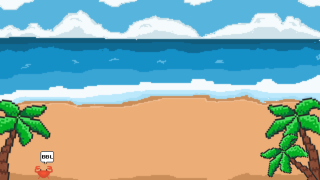
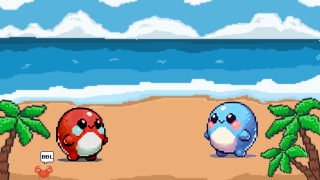
ani

Changed region(s): [[0.625, 0.5556, 0.8125, 0.8889], [0.1562, 0.5833, 0.3438, 0.9167]]

diff --git a/core/src/main/java/com/bubble/listeners/MyContactListener.java b/core/src/main/java/com/bubble/listeners/MyContactListener.java
@@ -45,69 +45,11 @@ public class MyContactListener implements ContactListener {
                     return;
                 }
             }
-        } else if (fa.getUserData() instanceof Bubble || fb.getUserData() instanceof Bubble) {
-            
+        } else if (fa.getUserData() instanceof Bubble && fb.getUserData() instanceof Bubble) {
+            Bubble b1 = (Bubble) fa.getUserData();
+            Bubble b2 = (Bubble) fb.getUserData();
+            b1.bubbleMerge(b2);
         }
-        // // If player has collided with a lever
-        // if (fa.getUserData() instanceof Interactable || fb.getUserData() instanceof Interactable) {
-        //     character = (PlayableCharacter) entityHandler.getEntity(fa.getUserData() instanceof Interactable ? fb.getBody() : fa.getBody());
-        //     character.addInteractable((Interactable) (fa.getUserData() instanceof Interactable ? fa.getUserData() : fb.getUserData()));
-
-        // } else if (fa.getUserData() instanceof Item || fb.getUserData() instanceof Item) {  // Collision with item
-        //     Item item = (Item) (fa.getUserData() instanceof Item ? fa.getUserData() : fb.getUserData());
-        //     util.getObjectHandler().removeObject(item);
-        //     hud.addPapaya(level);
-
-        // } else if (fa.getUserData() instanceof Merchant || fb.getUserData() instanceof Merchant) {  // Collision with merchant
-        //     Mage mage = (Mage) entityHandler.getEntity(fa.getUserData() instanceof Merchant ? fb.getBody() : fa.getBody());
-        //     Merchant merchant = (Merchant) (fa.getUserData() instanceof Merchant ? fa.getUserData() : fb.getUserData());
-        //     mage.setMerchantInRange(merchant);
-
-        // } else if (fa.getUserData() instanceof Platform || fb.getUserData() instanceof Platform) {  // Player collides with platform
-        //     // Adding entity to platform's entity list to handle horizontal movement
-        //     character = (PlayableCharacter) entityHandler.getEntity(fa.getUserData() instanceof Platform ? fb.getBody() : fa.getBody());
-        //     character.increaseFloorContact();
-        //     if (character.getMovementState() == MSTATE.PREV) character.setMovementState(MSTATE.STILL);
-        //     Platform platform = (Platform) (fa.getUserData() instanceof Platform ? fa.getUserData() : fb.getUserData());
-        //     platform.addEntityOnTop(character);
-
-        // } else if (fa.getUserData().equals("leftSensor") || fb.getUserData().equals("leftSensor")) {    // Collision with wall
-        //     character = (PlayableCharacter) entityHandler.getEntity(fa.getUserData().equals("leftSensor") ? fa.getBody() : fb.getBody());
-        //     character.setWallState(-1);
-
-        // } else if (fa.getUserData().equals("rightSensor") || fb.getUserData().equals("rightSensor")) {  // Collision with wall
-        //     character = (PlayableCharacter) entityHandler.getEntity(fa.getUserData().equals("rightSensor") ? fa.getBody() : fb.getBody());
-        //     character.setWallState(1);
-
-        // } else if (fa.getUserData().equals("bottomSensor") || fb.getUserData().equals("bottomSensor")) {    // Collision with ground
-        //     character = (PlayableCharacter) entityHandler.getEntity(fa.getUserData().equals("bottomSensor") ? fa.getBody() : fb.getBody());
-        //     character.increaseFloorContact();
-        //     if (character.getMovementState() == MSTATE.PREV) character.setMovementState(MSTATE.STILL);
-
-        // } else if (fa.getUserData().equals("attack") || fb.getUserData().equals("attack")) {    // Collision with sword attack
-        //     character = (PlayableCharacter) entityHandler.getEntity(fa.getUserData().equals("attack") ? fb.getBody() : fa.getBody());
-        //     Body characterB2body = character.getB2body();
-        //     character.die();
-        //     // Hit procedure
-        //     Vector2 normalized = MathWizard.normalizedDirection(characterB2body.getPosition(), fa.getUserData().equals("hazard") ? fa.getBody().getPosition() : fb.getBody().getPosition());
-        //     character.stun(0.05f);
-        //     characterB2body.applyLinearImpulse(new Vector2(normalized.x * Constants.KNOCKBACK_SCALE, normalized.y * Constants.KNOCKBACK_SCALE), characterB2body.getWorldCenter(), true);
-
-        // } else if (fa.getUserData().equals("spike") || fb.getUserData().equals("spike")) {  // Collision with spike
-        //     character = (PlayableCharacter) entityHandler.getEntity(fa.getUserData().equals("spike") ? fb.getBody() : fa.getBody());
-        //     character.setLives(1);
-        //     character.die();
-
-        // } else if (fa.getUserData().equals("vision") || fb.getUserData().equals("vision")) {    // Collision with range of vision
-        //     PlayableCharacter source = (PlayableCharacter) entityHandler.getEntity(fa.getUserData().equals("vision") ? fa.getBody() : fb.getBody());
-        //     PlayableCharacter target = (PlayableCharacter) entityHandler.getEntity((Integer) (fa.getUserData().equals("vision") ? fb : fa).getUserData());
-        //     util.getVisionMap().addTarget(source, target);
-
-        // } else if (fa.getUserData().equals("end") || fb.getUserData().equals("end")) {  // Collision with ending sensor
-        //     resourceManager.getSound("level_complete").play(1);
-        //     screenManager.setLevelProgression(level+1);
-        //     screenManager.pushScreen(SCREEN_OP.LEVELS, "sliding_left");
-        // }
     }
 
     // Triggered when a fixture stops colliding with a sensor
@@ -120,38 +62,6 @@ public class MyContactListener implements ContactListener {
 
         EntityHandler entityHandler = util.getEntityHandler();
 
-        // if (fa.getUserData() instanceof Interactable || fb.getUserData() instanceof Interactable) { // Removing lever from player's list
-        //     character = (PlayableCharacter) entityHandler.getEntity(fa.getUserData() instanceof Interactable ? fb.getBody() : fa.getBody());
-        //     character.removeInteractable((Interactable) (fa.getUserData() instanceof Interactable ? fa.getUserData() : fb.getUserData()));
-
-        // } else if (fa.getUserData() instanceof Platform || fb.getUserData() instanceof Platform) {  // Removing entity from platform's list
-        //     character = (PlayableCharacter) entityHandler.getEntity(fa.getUserData() instanceof Platform ? fb.getBody() : fa.getBody());
-        //     character.decreaseFloorContact();
-        //     Platform platform = (Platform) (fa.getUserData() instanceof Platform ? fa.getUserData() : fb.getUserData());
-        //     platform.removeEntityOnTop(character);
-
-        // } else if (fa.getUserData() instanceof Merchant || fb.getUserData() instanceof Merchant) {  // Merchant out of range
-        //     Mage mage = (Mage) entityHandler.getEntity(fa.getUserData() instanceof Merchant ? fb.getBody() : fa.getBody());
-        //     mage.setMerchantInRange(null);
-
-        // } else if (fa.getUserData().equals("leftSensor") || fb.getUserData().equals("leftSensor")) {    // Wall out of range
-        //     character = (PlayableCharacter) entityHandler.getEntity(fa.getUserData().equals("leftSensor") ? fa.getBody() : fb.getBody());
-        //     character.setWallState(0);
-
-        // } else if (fa.getUserData().equals("rightSensor") || fb.getUserData().equals("rightSensor")) {  // Wall out of range
-        //     character = (PlayableCharacter) entityHandler.getEntity(fa.getUserData().equals("rightSensor") ? fa.getBody() : fb.getBody());
-        //     character.setWallState(0);
-
-        // } else if (fa.getUserData().equals("bottomSensor") || fb.getUserData().equals("bottomSensor")) {    // Character on air
-        //     character = (PlayableCharacter) entityHandler.getEntity(fa.getUserData().equals("bottomSensor") ? fa.getBody() : fb.getBody());
-        //     character.decreaseFloorContact();
-
-        // } else if (fa.getUserData().equals("vision") || fb.getUserData().equals("vision")) {    // Entity out of range of vision
-        //     PlayableCharacter source = (PlayableCharacter) entityHandler.getEntity(fa.getUserData().equals("vision") ? fa.getBody() : fb.getBody());
-        //     PlayableCharacter target = (PlayableCharacter) entityHandler.getEntity((Integer) (fa.getUserData().equals("vision") ? fb : fa).getUserData());
-        //     util.getVisionMap().removeTarget(source, target);
-        //     if (!util.getVisionMap().traceable(target)) target.looseControl();
-        // }
     }
 
     // Method to collect both fixtures

diff --git a/core/src/main/java/com/bubble/entities/Player.java b/core/src/main/java/com/bubble/entities/Player.java
@@ -31,9 +31,8 @@ public class Player extends Entity implements Subscriber {
         this.util = util;
 
         if (id == 1){
-            setAnimation(TextureRegion.split(resourceManager.getTexture("p1"), 32, 32)[0], 1/5f, false, 1);
-        } else if (id == 2){setAnimation(TextureRegion.split(resourceManager.getTexture("p2"), 32, 32)[0], 1/5f, false, 1);}
-
+            setAnimation(TextureRegion.split(resourceManager.getTexture("idle"), 32, 32)[0], 1/5f, true, 1);
+        } else if (id == 2){ setAnimation(TextureRegion.split(resourceManager.getTexture("idle"), 32, 32)[0], 1/5f, true, 1); }
 
         lives = 3;
         interactablesInRange = new LinkedList<>();
@@ -63,15 +62,39 @@ public class Player extends Entity implements Subscriber {
 
     public void update(float delta) {
 
-        // Capping y velocity
+        // Update the animation
+        animation.update(delta);
 
+        // Capping y velocity
         if (isStateActive(Constants.PSTATE.DYING)) movementStates.clear();
         else if (isStateActive(Constants.PSTATE.STUNNED)) movementStates.clear();
         handleMovement();
-        handleAnimation();
-     
-        // Update the animation
-        animation.update(delta);
+
+        if (movementStates.size() == 0) {
+            switch (currAState) {
+                case RUN_DOWN:
+                    currAState = Constants.ASTATE.IDLE_DOWN;
+                    break;
+                case RUN_UP:
+                    currAState = Constants.ASTATE.IDLE_UP;
+                    break;
+                case RUN_UP_RIGHT:
+                    currAState = Constants.ASTATE.IDLE_UP_RIGHT;
+                    break;
+                case RUN_DOWN_RIGHT:
+                    currAState = Constants.ASTATE.IDLE_DOWN_RIGHT;
+                    break;
+                case RUN_RIGHT:
+                    currAState = Constants.ASTATE.IDLE_RIGHT;
+                    break;
+                default:
+                    break;
+            }
+        }
+        if (currAState != prevAState) {
+            handleAnimation();
+            prevAState = currAState;
+        }
     }
 
     public void handleMovement() {
@@ -94,52 +117,48 @@ public class Player extends Entity implements Subscriber {
                 if (prevState == Constants.MSTATE.UP) { moveUpLeft(); }
                 if (prevState == Constants.MSTATE.DOWN) { moveDownLeft(); }
                 break;
-
             case RIGHT:
                 facingRight = true;
                 if (prevState == null || prevState == Constants.MSTATE.LEFT) { moveRight(); }
                 if (prevState == Constants.MSTATE.UP) { moveUpRight(); }
                 if (prevState == Constants.MSTATE.DOWN) { moveDownRight(); }
                 break;
-
             case UP:
                 if (prevState == null || prevState == Constants.MSTATE.DOWN) { moveUp(); }
                 if (prevState == Constants.MSTATE.RIGHT) { moveUpRight(); }
                 if (prevState == Constants.MSTATE.LEFT) { moveUpLeft(); }
                 break;
-
             case DOWN:
                 if (prevState == null || prevState == Constants.MSTATE.UP) { moveDown(); }
                 if (prevState == Constants.MSTATE.RIGHT) { moveDownRight(); }
                 if (prevState == Constants.MSTATE.LEFT) { moveDownLeft(); }
                 break;
         }
-
     }
 
     public void handleAnimation() {
-        boolean idle = (movementStates.size() == 0) ? true : false;
         switch (currAState) {
             case RUN_DOWN:
-                if (idle) { setAnimation(TextureRegion.split(resourceManager.getTexture("p1"), 32, 32)[0], 1/5f, false, 1); currAState = Constants.ASTATE.IDLE_DOWN; }
-                else setAnimation(TextureRegion.split(resourceManager.getTexture("p1"), 32, 32)[0], 1/5f, true, 1);
+                setAnimation(TextureRegion.split(resourceManager.getTexture("run_down"), 32, 32)[0], 1/5f, true, 1);
                 break;
             case RUN_UP:
-                if (idle) { setAnimation(TextureRegion.split(resourceManager.getTexture("p1"), 32, 32)[0], 1/5f, false, 1); currAState = Constants.ASTATE.IDLE_UP; }
-                else setAnimation(TextureRegion.split(resourceManager.getTexture("p1"), 32, 32)[0], 1/5f, true, 1);
+                setAnimation(TextureRegion.split(resourceManager.getTexture("run_up"), 32, 32)[0], 1/5f, true, 1);
                 break;
             case RUN_RIGHT:
-                if (idle) { setAnimation(TextureRegion.split(resourceManager.getTexture("p1"), 32, 32)[0], 1/5f, false, 1); currAState = Constants.ASTATE.IDLE_RIGHT; }
-                else setAnimation(TextureRegion.split(resourceManager.getTexture("p1"), 32, 32)[0], 1/5f, true, 1);
+                setAnimation(TextureRegion.split(resourceManager.getTexture("run_right"), 32, 32)[0], 1/5f, true, 1);
                 break;
             case RUN_UP_RIGHT:
-                if (idle) { setAnimation(TextureRegion.split(resourceManager.getTexture("p1"), 32, 32)[0], 1/5f, false, 1); currAState = Constants.ASTATE.IDLE_UP_RIGHT; }
-                else setAnimation(TextureRegion.split(resourceManager.getTexture("p1"), 32, 32)[0], 1/5f, true, 1);
+                setAnimation(TextureRegion.split(resourceManager.getTexture("run_up_right"), 32, 32)[0], 1/5f, true, 1);
                 break;
             case RUN_DOWN_RIGHT:
-                if (idle) { setAnimation(TextureRegion.split(resourceManager.getTexture("p1"), 32, 32)[0], 1/5f, false, 1); currAState = Constants.ASTATE.IDLE_DOWN_RIGHT; }
-                else setAnimation(TextureRegion.split(resourceManager.getTexture("p1"), 32, 32)[0], 1/5f, true, 1);
+                setAnimation(TextureRegion.split(resourceManager.getTexture("run_down_right"), 32, 32)[0], 1/5f, true, 1);
                 break;
+            case IDLE_DOWN:
+            case IDLE_RIGHT:
+            case IDLE_UP:
+            case IDLE_DOWN_RIGHT:
+            case IDLE_UP_RIGHT:
+                setAnimation(TextureRegion.split(resourceManager.getTexture("idle"), 32, 32)[0], 1/5f, true, 1);
             default:
                 break;
         }

diff --git a/core/src/main/java/com/bubble/entities/Bubble.java b/core/src/main/java/com/bubble/entities/Bubble.java
@@ -136,8 +136,10 @@ public class Bubble extends Entity implements Subscriber {
 
                 circle.setRadius(this.width / Constants.PPM / 2);
                 fdef.shape = circle;
-
-                b2body.destroyFixture(b2body.getFixtureList().get(0));
+                
+                if (b2body.getFixtureList().size != 0) {
+                    b2body.destroyFixture(b2body.getFixtureList().get(0));
+                }
                 b2body.createFixture(fdef).setUserData(this);
 
                 if (this.resize >= 0.05f) {
@@ -158,9 +160,7 @@ public class Bubble extends Entity implements Subscriber {
 
     public void bubbleMerge(Bubble incomingBubble) {
         if (incomingBubble.width == this.width && incomingBubble.height == this.height) {
-            b2body.destroyFixture(b2body.getFixtureList().get(0));
             incomingBubble.pop();
-            entityHandler.addEntityOperation(incomingBubble, "pop");
         }
         else{
             this.shootigDirection = (incomingBubble.width > this.width) ?  incomingBubble.b2body.getLinearVelocity() : this.b2body.getLinearVelocity();
@@ -171,8 +171,8 @@ public class Bubble extends Entity implements Subscriber {
             circle.setRadius(this.width / Constants.PPM / 2);
             fdef.shape = circle;
 
-            b2body.destroyFixture(b2body.getFixtureList().get(0));
-            b2body.createFixture(fdef).setUserData(this);
+            // b2body.destroyFixture(b2body.getFixtureList().get(0));
+            // b2body.createFixture(fdef).setUserData(this);
         }
     }
 

diff --git a/core/src/main/java/com/bubble/Main.java b/core/src/main/java/com/bubble/Main.java
@@ -35,8 +35,12 @@ public class Main extends Game {
 	// Loading sprites to the resource manager for later use
 	public void loadSprites() {
 
-        resourceManager.loadTexture("player/player.png", "p1");
-        resourceManager.loadTexture("player/player.png", "p2");
+        resourceManager.loadTexture("player/run_right.png", "run_right");
+        resourceManager.loadTexture("player/run_down.png", "run_down");
+		resourceManager.loadTexture("player/run_up.png", "run_up");
+		resourceManager.loadTexture("player/run_down_right.png", "run_down_right");
+        resourceManager.loadTexture("player/run_up_right.png", "run_up_right");
+        resourceManager.loadTexture("player/idle.png", "idle");
 
 
 		//Start Screen buttons

diff --git a/core/src/main/java/com/bubble/screens/GameScreen.java b/core/src/main/java/com/bubble/screens/GameScreen.java
@@ -45,7 +45,6 @@ public class GameScreen extends ManagedScreen {
         this.game = game;
         this.screenManager = screenManager;
 
-
         // Creating tile map
         TmxMapLoader mapLoader = new TmxMapLoader();
         TiledMap map = mapLoader.load("tilemaps/MAptry1.tmx");

diff --git a/core/src/main/java/com/bubble/sprites/B2Sprite.java b/core/src/main/java/com/bubble/sprites/B2Sprite.java
@@ -21,7 +21,7 @@ public abstract class B2Sprite {
      * Between 0 and 1 to shrink
      * Greater than 1 to expand
      */
-    protected float resize;
+    public float resize;
 
     public B2Sprite() {
         animation = new Animation();
